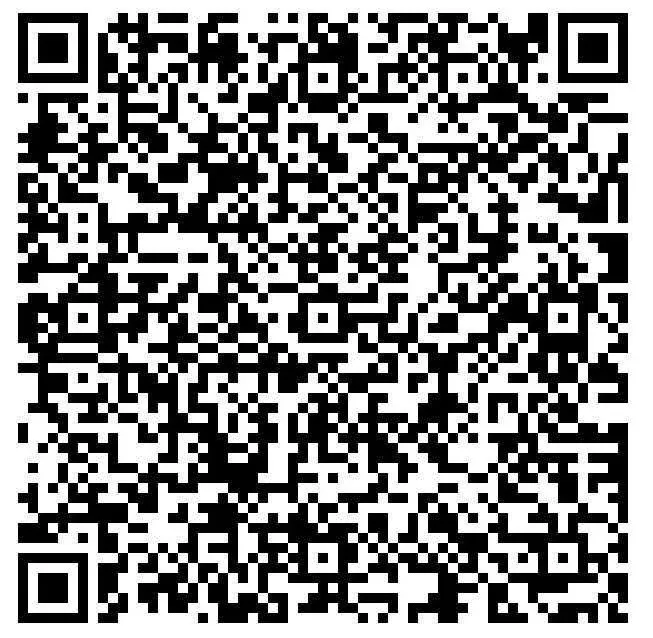
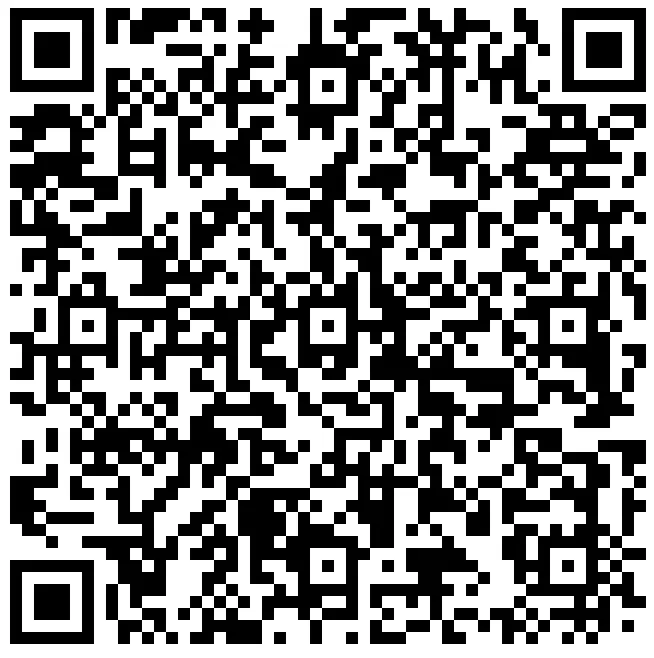
e

diff --git a/pay/index.html b/pay/index.html
@@ -333,7 +333,7 @@ body {
 <p><span style="background-color: #ffff00;"><strong>India: Option-1 (Google Pay / Phone Pe / PayTM/ UPI / BHIM / Whatsapp Pay):</strong></span></p>
 <ul style="list-style-type: square;">
 <li style="text-align: justify;">PhonePe or Google Pay or PayTM:<strong> 9764058654</strong></li>
-<li style="text-align: justify;"><strong>UPI ID:</strong> 9764058654@okbizaxis</li>
+<li style="text-align: justify;"><strong>UPI ID:</strong> 9764058654-1@okbizaxis</li>
 <li style="text-align: justify;"><strong>OR</strong> Scan below UPI Code using Google Pay or Phone Pe or PayTM or BHIM or Whatsapp Pay or any UPI App.</li>
 </ul>
 
@@ -364,7 +364,6 @@ body {
 <br>
 
 <p><strong><span style="background-color: #ffff00;">India: Option-3 (Debit or Credit Cards or NetBanking):</span></strong></p>
-<ul style="list-style-type: square;">
 <li style="text-align: justify;">Pay using Debit Card or Credit Card or UPI or Net Banking</li>
 <li style="text-align: justify;"><strong>Link:</strong> <span style="color: #0000ff;"><a style="color: #0000ff;" href="https://p-y.tm/goj0-cz" target="_blank">https://p-y.tm/goj0-cz</a></span></li>
 
